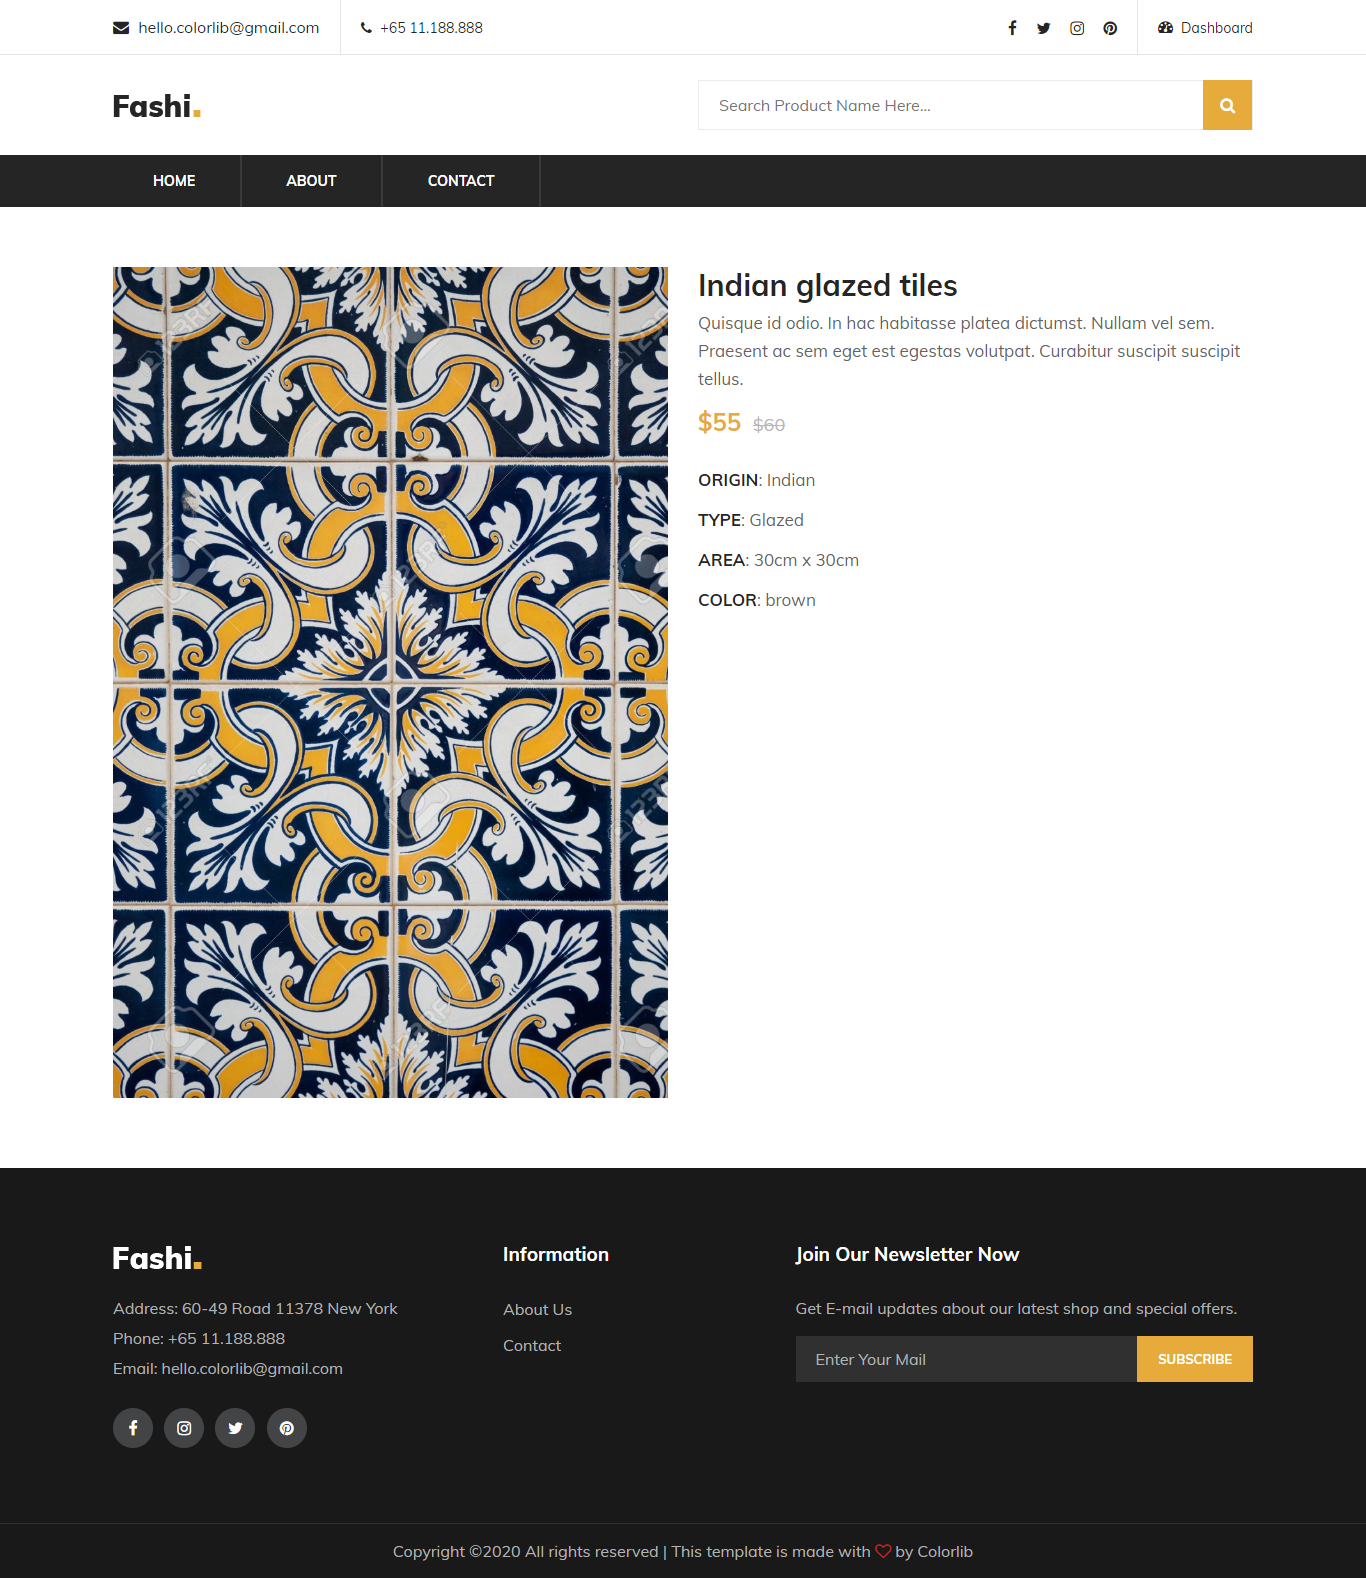
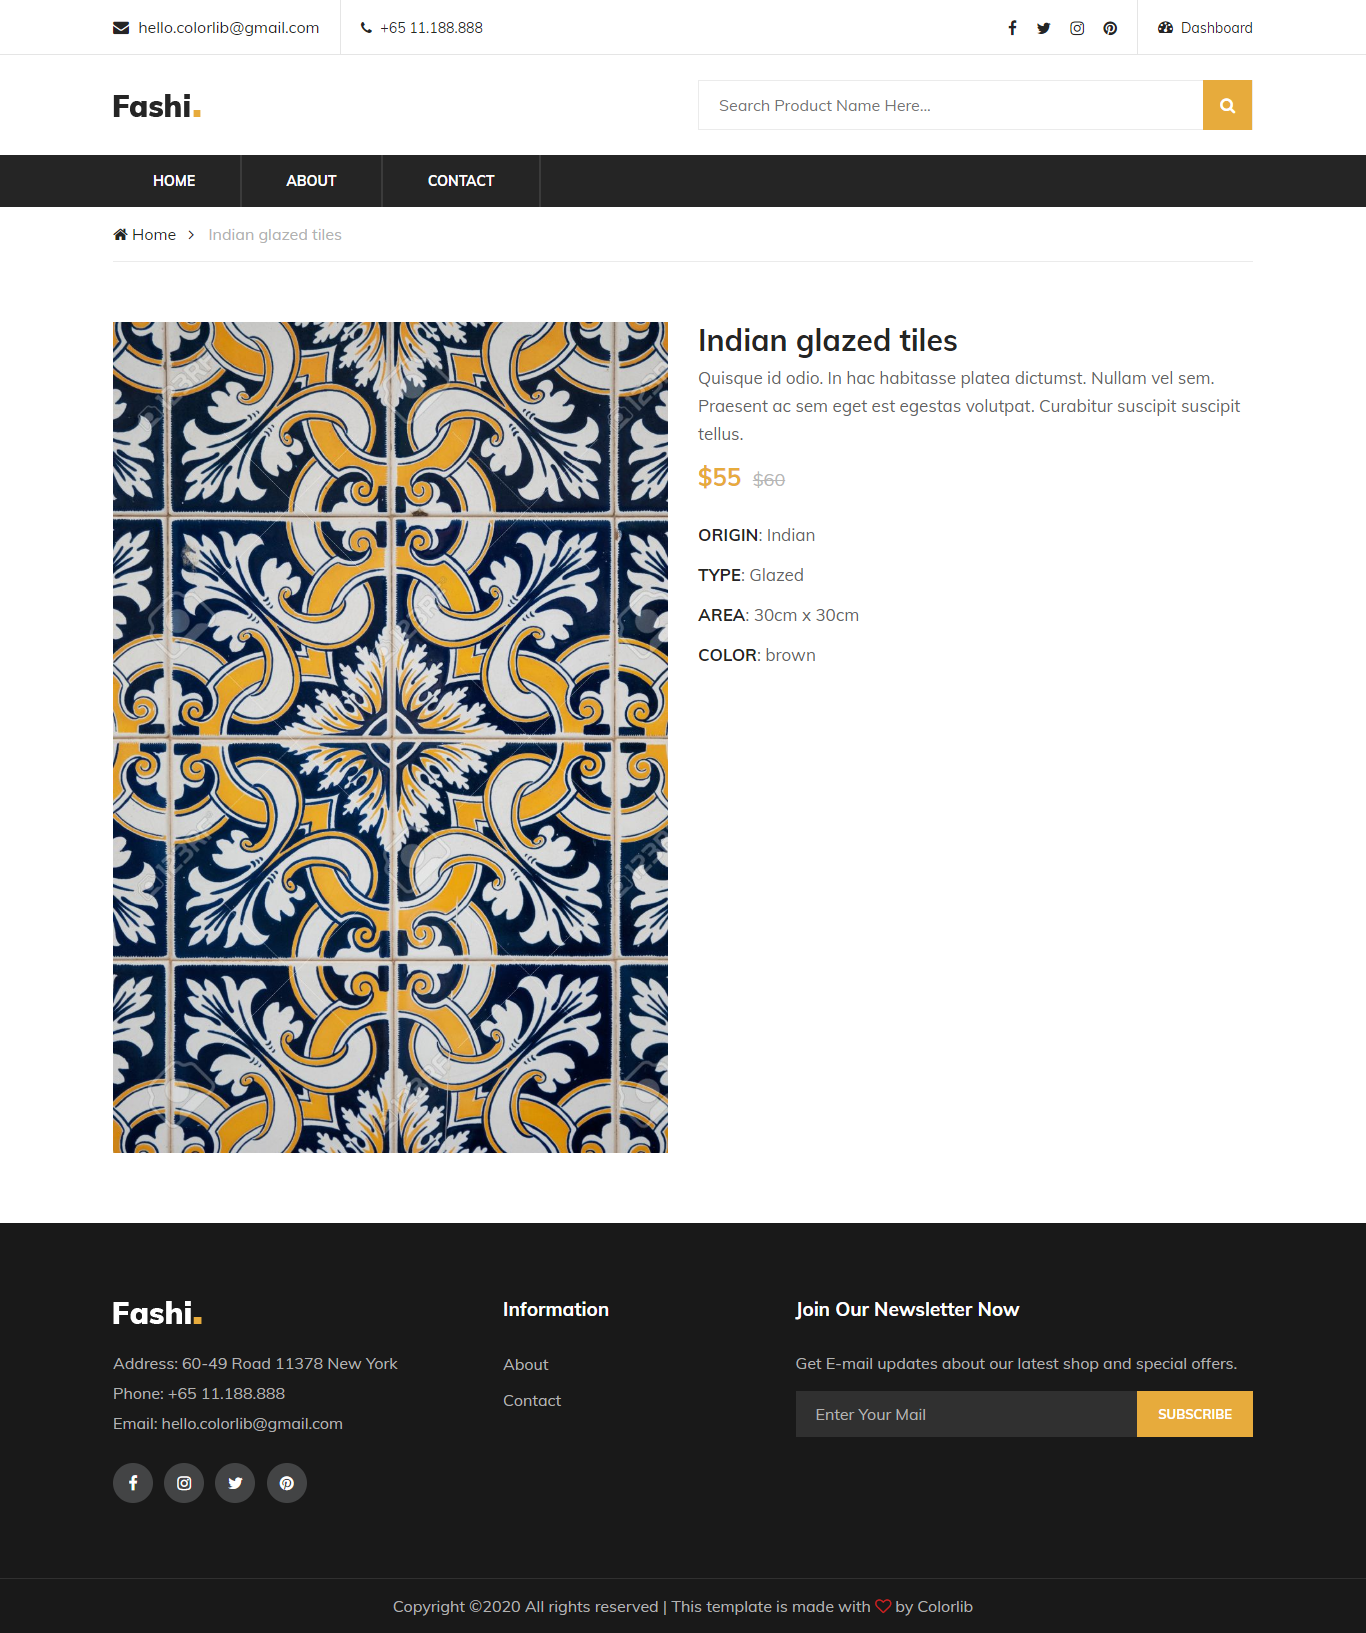
Add breadcrumb section

diff --git a/templates/products/product_detail.html b/templates/products/product_detail.html
@@ -5,6 +5,17 @@
 
 {% block title %}{{ product.name }} - {{ block.super }}{% endblock %}
 
+{% block breadcrumb %}
+<div class="breacrumb-section">
+    <div class="container">
+        <div class="breadcrumb-text product-more">
+            <a href="{% url 'products:list' %}"><i class="fa fa-home"></i> Home</a>
+            <span>{{ product.name }}</span>
+        </div>
+    </div>
+</div>
+{% endblock %}
+
 {% block content %}
     <div class="row">
         <div class="col-lg-6">

diff --git a/templates/flatpages/default.html b/templates/flatpages/default.html
@@ -5,6 +5,17 @@
 
 {% block title %}{{ flatpage.title }} - {{ block.super }}{% endblock %}
 
+{% block breadcrumb %}
+<div class="breacrumb-section">
+    <div class="container">
+        <div class="breadcrumb-text product-more">
+            <a href="{% url 'products:list' %}"><i class="fa fa-home"></i> Home</a>
+            <span>{{ flatpage.title }}</span>
+        </div>
+    </div>
+</div>
+{% endblock %}
+
 {% block content %}
     <div>
         {{ flatpage.content }}

diff --git a/templates/base.html b/templates/base.html
@@ -32,6 +32,8 @@
 
         {% include 'includes/header.html' %}
 
+        {% block breadcrumb %}{% endblock %}
+
         <section class="product-shop spad">
             <div class="container">
                 {% block content %}{% endblock %}

diff --git a/README.md b/README.md
@@ -63,3 +63,7 @@ Colorlib: https://colorlib.com
 #### Detail Page
 
 ![alt text](https://github.com/alnuaimi94/ProductFolio/blob/master/_screenshots/detail.png)
+
+#### About Page
+
+![alt text](https://github.com/alnuaimi94/ProductFolio/blob/master/_screenshots/about.png)
